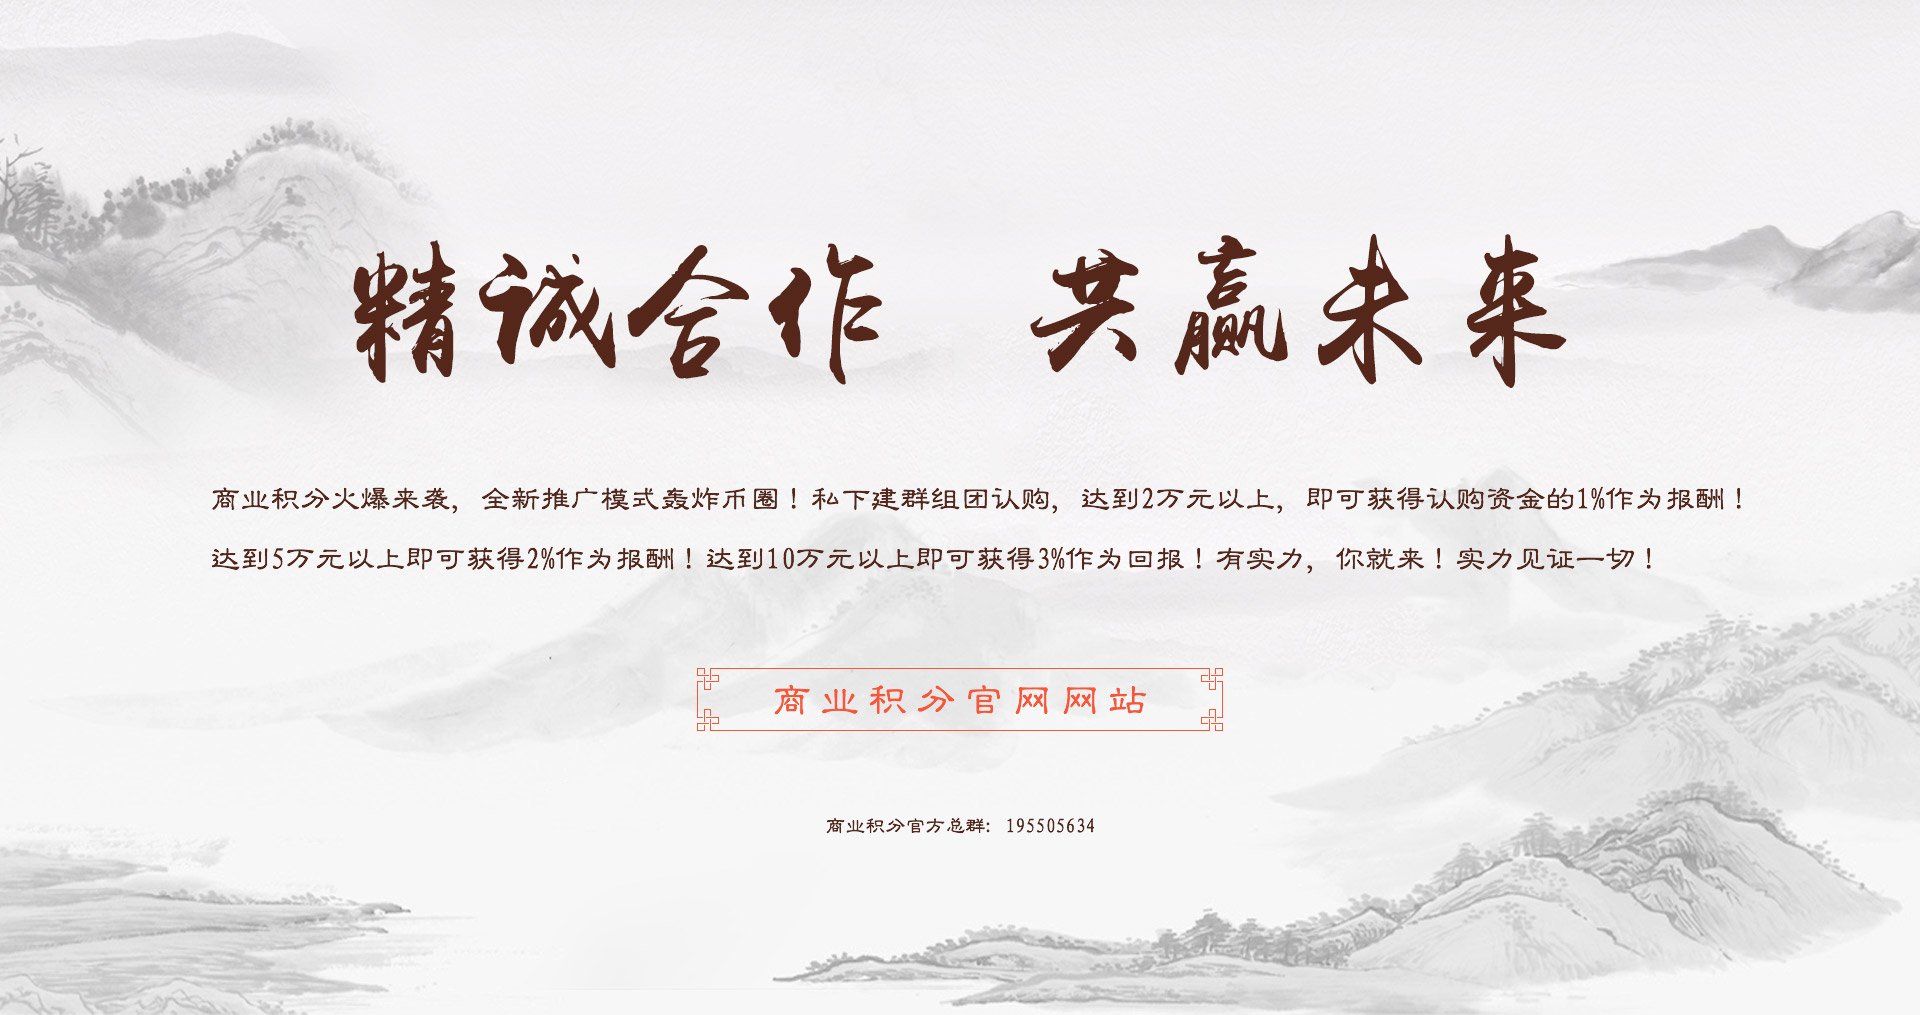
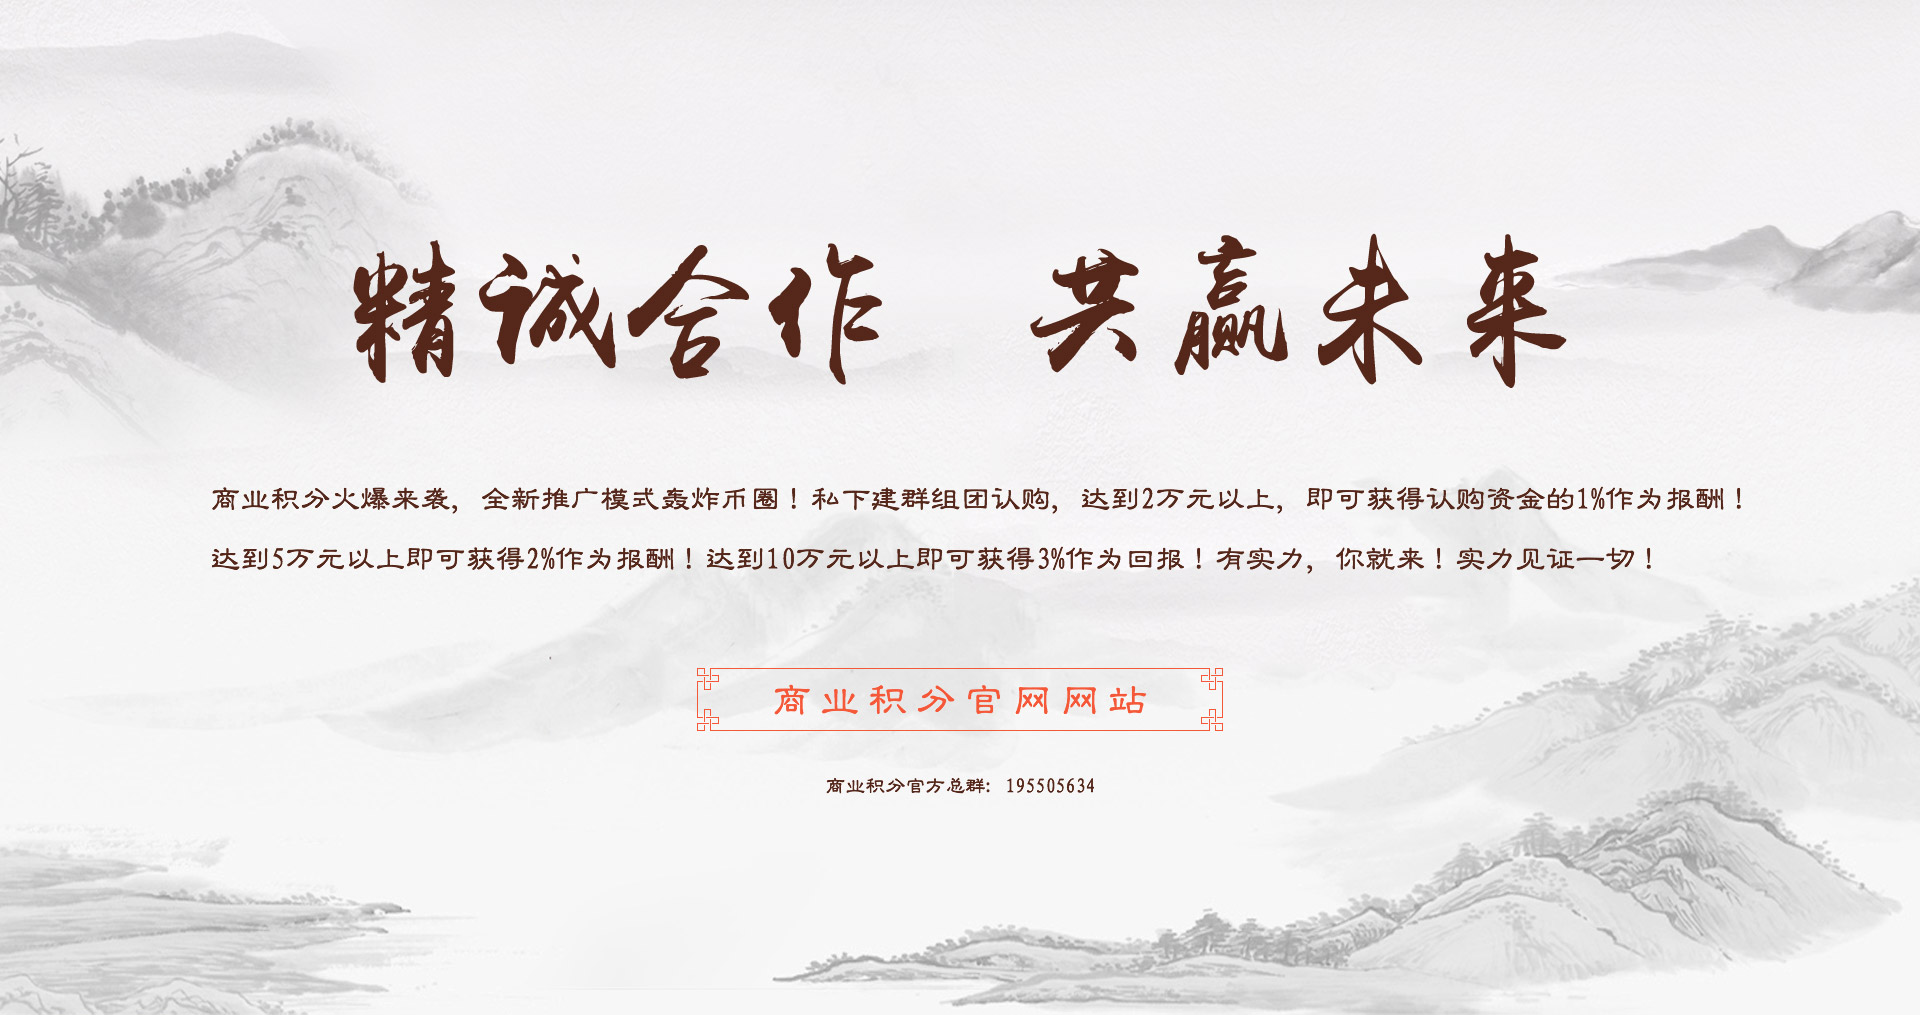
添加下载钱包和区块浏览器两个按钮

Changed region(s): [[0.4375, 0.7635, 0.5625, 0.8246], [0.1875, 0.4887, 0.2188, 0.5192]]

diff --git a/views/index.html b/views/index.html
@@ -98,7 +98,17 @@
 
 <!--&lt;!&ndash; Contact Section &ndash;&gt;-->
 <div id="contact-section" class="text-center" style="text-align: center">
-    <img src="/img/header-bg11.jpg" style="width: 100%"/>
+    <img src="/img/header-bg11.jpg" style="width: 100%;vertical-align:bottom;vertical-align:middle;vertical-align:top"/>
+</div>
+<div style="border:0px solid #000000;font-size:0;float: left;width: 100%;text-align: center">
+    <a href="http://pan.baidu.com/s/1sliUITn" target="_blank">
+    <img src="/img/button-bg.jpg" style="vertical-align:bottom;vertical-align:middle;vertical-align:top;
+    position: relative;top:-105px;margin: 0px 30px 0 0">
+    </a>
+    <a href="http://block.dacrs.com" target="_blank">
+        <img src="/img/button-bg01.jpg" style="vertical-align:bottom;vertical-align:middle;vertical-align:top;
+    position: relative;top:-105px;margin: 0px auto">
+    </a>
 </div>
 
 <nav id="footer">
